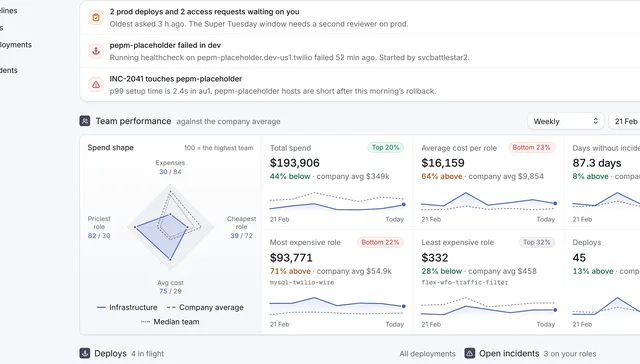
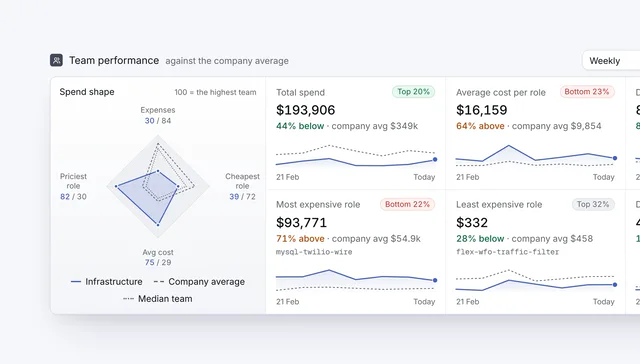
Lift the Team performance panel out for the Twilio project
The flat crop of the overview still read as a screenshot: the sidebar
and Needs you cut off at the edges, and the stats competing with them.
The project view now shows one component the way a visuals reel does
-- the Team performance panel alone, at 1.9x, on the app's own
background with a soft shadow, the stats running off the right edge.

Captured as an element screenshot at 4x so the text stays sharp; the
frame is 1920x1093 like the tile, and the file drops to 90 KB.

diff --git a/src/data/portfolio.ts b/src/data/portfolio.ts
@@ -769,9 +769,9 @@ const portfolioCardEntries: PortfolioCard[] = [
     role: "As a contract product designer I led the navigation research, the information architecture, and the team dashboards.",
     outcome:
       "Engineers land on their own team’s deployments and pipelines by default, and editing an access policy takes three steps instead of six.",
-    // The tile tilts a sheet of Admiral's screens; opening it shows the one
-    // overview flat and close up, the sidebar and Needs you running off the
-    // left and top so the team's performance against the company fills it.
+    // The tile tilts a sheet of Admiral's screens; opening it lifts out one
+    // panel, the team's performance against the company, large on the app's
+    // own background and running off the right edge.
     image: "/Projects/twilio-admiral-overview.webp",
     previewWidth: 1920,
     previewHeight: 1093,
